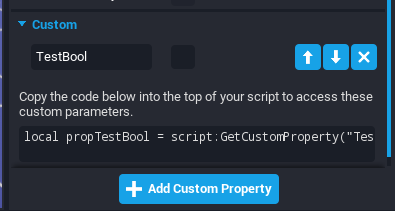
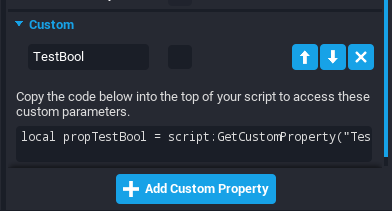
Update Custom Properties Reference
Added information about tooltips.
Fixed up some wording so it's passive.
Fixed a few of the images so they are sized better and use the new Add Property panel that contains the tooltip.

diff --git a/src/references/custom_properties.md b/src/references/custom_properties.md
@@ -10,7 +10,7 @@ tags:
 
 ## Summary
 
-**Custom Properties** are incredibly powerful tools that allow game creators to assign values like numbers, colors, and references to other objects as a part of one object, template, or script. These values can be edited in the editor or during runtime to allow for easy customization and to give something its own configuration or personality.
+**Custom Properties** allow game creators to assign values like numbers, colors, and references to other objects as a part of one object, template, or script. These values can be edited in the editor or during runtime to allow for easy customization and to give something its own configuration or personality.
 
 These allow for easy referencing in scripts or changing variables through the Properties window, rather than directly through code.
 
@@ -30,6 +30,7 @@ This is the best option for many simple data types like strings, numbers, and bo
 3. Click on the data type the value of the custom property will contain.
 4. Type the name the custom property will be referred by.
 5. Edit the value of the custom property as needed.
+6. Add tooltip if needed. This can be used to explain what the custom property does.
 
 ![Properties Window](../img/CustomProperties/PropertiesWindow.png)
 
@@ -45,6 +46,28 @@ This is the best option for complex/advanced data types like Core Object Referen
 2. Hold click on the other object that will be the custom property for the first object.
 3. Drag the other object into bottom of the **Properties** window of the first object.
 
+## Adding Tooltips to Custom Properties
+
+Adding tooltips to custom properties is useful for adding a description to explain what the custom property is for. This is very useful when sharing content, such as publishing to **Community Content**. When the custom property is hovered over, the tooltip will be displayed and contain the information set by the creator.
+
+There are 2 ways to add a tooltip to a custom property.
+
+1. When creating a custom property.
+
+    When a custom property is being created, there is an option in the **Add Property** panel to set the tooltip.
+
+    ![!Tooltip](../img/CustomProperties/AddPropertyTooltip.png)
+
+2. Edit existing custom property.
+
+    Existing custom properties can have a tooltip set by right clicking on them, and selecting **Set Custom Property ToolTip**.
+
+    ![!Tooltip](../img/CustomProperties/EditCustomPropertyTooltip.png)
+
+    ![!Tooltip](../img/CustomProperties/SetTooltipPanel.png)
+
+![!Tooltip](../img/CustomProperties/TooltipExample.png)
+
 ## Copying Custom Properties
 
 **Custom Properties** can be copied and pasted to other objects.
@@ -57,7 +80,7 @@ This is the best option for complex/advanced data types like Core Object Referen
 6. Click **Add Copied Custom Properties**.
 
 !!! note
-    Core will automatically copy-and-paste all of the custom properties of the original object when you duplicate it.
+    Core will automatically copy-and-paste all of the custom properties of the original object when it is duplicated.
 
 ## Referencing Custom Properties Through Script
 
@@ -85,7 +108,7 @@ Custom properties can by edited during runtime through scripts if the object and
 
 ### Enable Networking
 
-Firstly, the object and the custom property must have networking enabled for the custom property to be edited during runtime. You will get an error if it is not networked.
+Firstly, the object and the custom property must have networking enabled for the custom property to be edited during runtime. An error will occur if it is not networked.
 
 1. Right-click on the object
 2. Click **Enable Networking**. The object should have `(networked)` at the end of its name when viewed in the **Hierarchy**.
@@ -102,7 +125,7 @@ Firstly, the object and the custom property must have networking enabled for the
 
 To change the value of the custom property of a CoreObject use the `CorObject:SetNetworkedCustomProperty()` function of **CoreObject**. More information in the [CoreObject API Reference](../api/coreobject.md#setnetworkedcustomproperty).
 
-For example, to set the `TimeRemaining` custom property of a `Cube` to `10` (in seconds), you would type:
+For example, to set the `TimeRemaining` custom property of a `Cube` to `10` (in seconds), type:
 
 ```lua
 CubeObject:SetNetworkedCustomProperty("TimeRemaining", 10)
@@ -137,12 +160,12 @@ There are a few simple data types supported as custom properties.
 
 | Data Type    | Description |
 | ------------ | ----------- |
-| **Bool**     | A **Boolean** is only ever `true` or `false`. This can be best compared to on/off, yes/no, etc.<br /><br />In custom properties, they are expressed as a check box that is either checked (`true`) or unchecked (`false`).<br /><br />**Booleans** are most often used in if-statements that allow you to write code that is only executed if certain conditions are met, such as the boolean being `true`. |
+| **Bool**     | A **Boolean** is only ever `true` or `false`. This can be best compared to on/off, yes/no, etc.<br /><br />In custom properties, they are expressed as a check box that is either checked (`true`) or unchecked (`false`).<br /><br />**Booleans** are most often used in if-statements that allow creators to write code that is only executed if certain conditions are met, such as the boolean being `true`. |
 | **Color**    | A **Color** is a Core class that contains values for `red`, `green`, `blue`, and `alpha` (transparency).<br /><br />**Colors** are helpful constants that can assist in UI programming, spawning assets of different colors, etc.<br /><br />More information can be found in the [Color API](../api/color.md). |
 | **Float**    | A **Float** is a number that can have decimals, such as `0.1`, `1.2`, `139.8`, etc. |
 | **Int**      | An **Int** is a number that can not have decimals and must be whole, such as `0`, `1`, `139`, etc. |
 | **Rotation** | A **Rotation** is a Core class that contains values for `x`, `y`, and `z` on rotation axis.<br /><br />More information can be found in the [Rotation API](../api/rotation.md). |
-| **String**   | A **String** is a collection of any value you want, such as numbers, letters, punctuation, and emojis. They are represented in double quotes (`" "`) in code so that the computer does not mistake them for code. However, this is not necessary for custom properties as **String** custom properties are represented as a text box that can be typed in. |
+| **String**   | A **String** is a collection of any value, such as numbers, letters, punctuation, and emojis. They are represented in double quotes (`" "`) in code so that the computer does not mistake them for code. However, this is not necessary for custom properties as **String** custom properties are represented as a text box that can be typed in. |
 | **Vector2**  | A **Vector2** contains values for `x` and `y` and is usually useful for storing UI positions/size or any two-dimensional structures.<br /><br />More information can be found in the [Vector2 API](../api/vector2.md). |
 | **Vector3**  | A **Vector3** contains values for `x`, `y`, and `z` and is usually useful for storing 3D positions/size or any three-dimensional structures.<br /><br />More information can be found in the [Vector3 API](../api/vector3.md). |
 | **Vector4**  | A **Vector4** contains values for `x`, `y`, `z`, and `w` and is useful for any four-dimensional structures.<br /><br />More information can be found in the [Vector4 API](../api/vector4.md). |
@@ -164,7 +187,7 @@ When getting this reference into a variable, `:WaitForObject()` needs to be adde
 
 More information can be found in the [CoreObjectReference API](../api/coreobjectreference.md) and the [CoreObject API](../api/coreobject.md).
 
-For example, say you want to rotate a cube 45 degrees every 2 seconds. You would:
+For example, rotating a cube 45 degrees every 2 seconds.
 
 1) Add a **Core Object Reference** custom property to the script referencing Cube called `CubeObject`
 2) Create a **Rotation** custom property to the script called `RotationIncrement`
@@ -196,7 +219,7 @@ This includes referencing **Templates** so that they can be spawned without havi
 
 #### Requiring Scripts
 
-An **Asset Reference** can be used to `require` scripts and gain access to its properties and functions. This is commonplace for APIs/Modules created by you that include a table of values/functions to be used between scripts.
+An **Asset Reference** can be used to `require` scripts and gain access to its properties and functions. This is commonplace for APIs/Modules that include a table of values/functions to be used between scripts.
 
 Say that there is a script **Asset Reference** custom property called `SampleAPI`, it can be included into the script by using `require`, similar to `script.context`, to get what was returned from the script.
 
@@ -212,7 +235,7 @@ end
 return SampleAPI
 ```
 
-Then, you can use the `TestFunction` function of the `SampleAPI` script by typing:
+Then, use the `TestFunction` function of the `SampleAPI` script by typing:
 
 ```lua
 local SampleAPI = require(script:GetCustomProperty("SampleAPI"))
